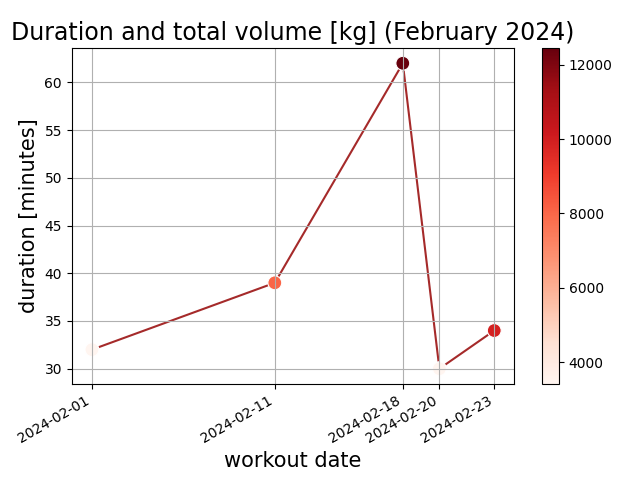
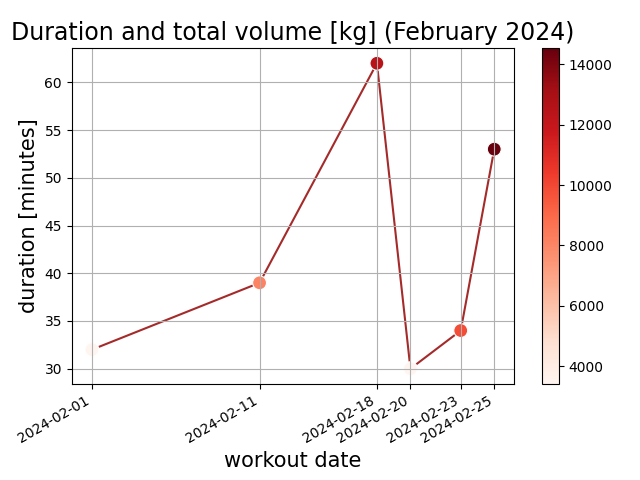
chore: add today's workout

diff --git a/project_docs/examples/EXAMPLES.md b/project_docs/examples/EXAMPLES.md
@@ -12,19 +12,15 @@ VO2-Max: `55.21923 mL/kg/min`<br>
 Below: Annual weekly workout frequency.<br>
 Each figure displays week vs number of workouts during that week.
 
-|            ![2024_workout_frequency](../../img/2024_workout_frequency.png)            |      ![2023_workout_frequency](../../img/2023_workout_frequency.png)      |
-| :--------------------------------------------------------------------------------------: | :--------------------------------------------------------------------: |
+| ![2024_workout_frequency](../../img/2024_workout_frequency.png) | ![2023_workout_frequency](../../img/2023_workout_frequency.png) |
+| :----------: | :------: |
 | ![2022_workout_frequency](../../img/2022_workout_frequency.png) | ![2021_workout_frequency](../../img/2021_workout_frequency.png) |
-
-
-<p style="text-align: center;">Weekly workout frequency</p>
-
-![workout_frequency](../../img/workout_frequency.png)
 
 ## Duration and volume
 <!-- <p style="text-align: center;">Workout duration and volume</p> -->
 
-![January_2024](../../img/workout_duration_January_2024.png)
+| ![January_2024](../../img/workout_duration_January_2024.png) | ![February_2024](../../img/workout_duration_February_2024.png) |
+| :----------: | :------: |
 
 #### 2023:
 
